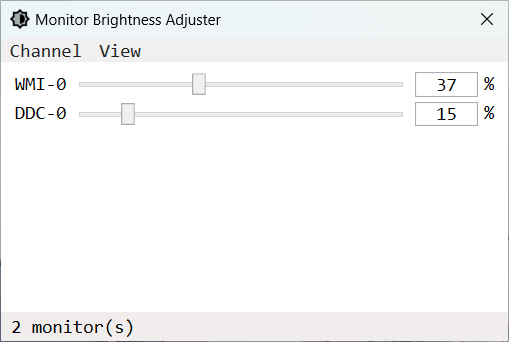
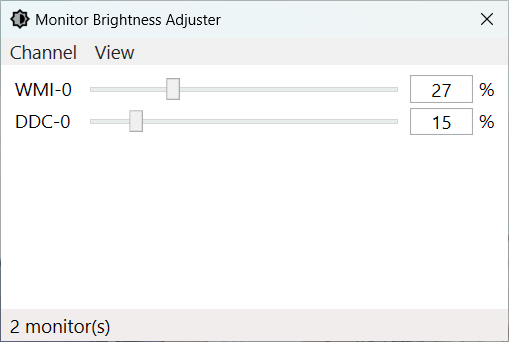
Feat: commit changes

Changed region(s): [[0.0295, 0.2047, 0.9725, 0.4094], [0.0, 0.117, 0.2947, 0.1754], [0.0, 0.9357, 0.2652, 0.9942]]

diff --git a/MonitorBrightnessAdjuster/MainWindow.xaml b/MonitorBrightnessAdjuster/MainWindow.xaml
@@ -12,7 +12,7 @@
         WindowStartupLocation="CenterScreen"
         Title="Monitor Brightness Adjuster">
     <DockPanel>
-        <Menu DockPanel.Dock="Top" FontSize="15" FontFamily="Consolas">
+        <Menu DockPanel.Dock="Top" FontSize="15">
             <MenuItem Header="Channel">
                 <MenuItem Header="WMI" IsCheckable="True" IsChecked="{Binding EnabledWmiChannel}" />
                 <MenuItem Header="DDC" IsCheckable="True" IsChecked="{Binding EnabledDdcChannel}"/>
@@ -21,10 +21,10 @@
                 <MenuItem Header="Refresh" Command="{Binding RefreshCommand}"/>
             </MenuItem>
         </Menu>
-        <StatusBar DockPanel.Dock="Bottom" FontSize="15" FontFamily="Consolas">
-            <TextBlock Text="{Binding MonitorBrightnessModels.Count, StringFormat={}{0} monitor(s)}" Margin="5,0,0,0" />
+        <StatusBar DockPanel.Dock="Bottom" FontSize="15">
+            <TextBlock Text="{Binding MonitorBrightnessModels.Count, StringFormat={}{0} monitor(s)}" Margin="4,0,0,0" />
         </StatusBar>
-        <ListBox BorderThickness="0" Margin="5" FontSize="15" FontFamily="Consolas" ItemsSource="{Binding MonitorBrightnessModels}">
+        <ListBox BorderThickness="0" Margin="5" FontSize="15" ItemsSource="{Binding MonitorBrightnessModels}">
             <ListBox.ItemContainerStyle>
                 <Style TargetType="ListBoxItem">
                     <Setter Property="HorizontalContentAlignment" Value="Stretch" />
@@ -40,7 +40,7 @@
                             <ColumnDefinition Width="Auto" />
                             <ColumnDefinition Width="Auto" />
                         </Grid.ColumnDefinitions>
-                        <TextBlock Grid.Column="0" Margin="0,0,5,0">
+                        <TextBlock Grid.Column="0" Width="50" Margin="0,0,5,0">
                             <TextBlock.Text>
                                 <MultiBinding StringFormat="{}{0}-{1}">
                                     <Binding Path="Channel" />
@@ -49,7 +49,7 @@
                             </TextBlock.Text>
                         </TextBlock>
                         <Slider Grid.Column="1" VerticalAlignment="Center" Margin="0,0,5,0" Maximum="100" Value="{Binding Brightness}" />
-                        <TextBox Grid.Column="2" Width="50" TextAlignment="Center" VerticalContentAlignment="Center" InputMethod.IsInputMethodEnabled="False" Margin="0,0,5,0" Text="{Binding Brightness, UpdateSourceTrigger=PropertyChanged}" />
+                        <TextBox Grid.Column="2" Width="50" TextAlignment="Center" VerticalContentAlignment="Center" Margin="0,0,5,0" local:TextBoxAttachedProperties.IsPercentage="True" Text="{Binding Brightness, UpdateSourceTrigger=PropertyChanged}" />
                         <TextBlock Grid.Column="3" Text="%" />
                     </Grid>
                 </DataTemplate>

diff --git a/MonitorBrightnessAdjuster/TextBoxAttachedProperties.cs b/MonitorBrightnessAdjuster/TextBoxAttachedProperties.cs
@@ -1,0 +1,44 @@
+using System.Windows.Controls;
+using System.Windows.Input;
+using System.Windows;
+
+namespace MonitorBrightnessAdjuster {
+    public class TextBoxAttachedProperties {
+        public static bool GetIsPercentage(DependencyObject obj) {
+            return (bool) obj.GetValue(MatchingPatternProperty);
+        }
+
+        public static void SetIsPercentage(DependencyObject obj, bool value) {
+            obj.SetValue(MatchingPatternProperty, value);
+        }
+
+        public static readonly DependencyProperty MatchingPatternProperty =
+            DependencyProperty.RegisterAttached("IsPercentage", typeof(bool), typeof(TextBox), new PropertyMetadata(false,
+                (s, e) => {
+                    if (s is TextBox textBox) {
+                        textBox.SetValue(InputMethod.IsInputMethodEnabledProperty, !(bool) e.NewValue);
+                        textBox.AllowDrop = !(bool) e.NewValue;
+                        textBox.CommandBindings.Clear();
+                        textBox.PreviewTextInput -= TextInput;
+                        if ((bool) e.NewValue) {
+                            textBox.CommandBindings.Add(new CommandBinding(ApplicationCommands.Paste, null, CommandCanExecute));
+                            textBox.PreviewTextInput += TextInput;
+                        }
+                    }
+                }));
+
+        private static void CommandCanExecute(object sender, CanExecuteRoutedEventArgs e) {
+            e.CanExecute = false;
+            e.Handled = true;
+        }
+
+        private static void TextInput(object sender, TextCompositionEventArgs e) {
+            if (sender is TextBox textBox) {
+                e.Handled = !(int.TryParse(textBox.Text.Substring(0, textBox.SelectionStart) +
+                                           e.Text +
+                                           textBox.Text.Substring(textBox.SelectionStart + textBox.SelectionLength),
+                                           out int number) && number >= 0 && number <= 100);
+            }
+        }
+    }
+}

diff --git a/MonitorBrightnessAdjuster/Adjusters/WmiAdjuster.cs b/MonitorBrightnessAdjuster/Adjusters/WmiAdjuster.cs
@@ -59,7 +59,7 @@ namespace MonitorBrightnessAdjuster.Adjusters {
             if (monitorIndex >= monitorBrightnessInstances.Count() || monitorIndex < 0) {
                 throw new ArgumentOutOfRangeException(nameof(monitorIndex));
             }
-            if (brightness < 0) {
+            if (brightness < 0 || brightness > 100) {
                 throw new ArgumentOutOfRangeException(nameof(brightness));
             }
             KeyValuePair<ManagementObject, ManagementObject> currentInstance = monitorBrightnessInstances

diff --git a/MonitorBrightnessAdjuster/Adjusters/DdcAdjuster.cs b/MonitorBrightnessAdjuster/Adjusters/DdcAdjuster.cs
@@ -37,7 +37,7 @@ namespace MonitorBrightnessAdjuster.Adjusters {
             if (monitorIndex < 0) {
                 throw new ArgumentOutOfRangeException(nameof(monitorIndex));
             }
-            if (brightness < 0) {
+            if (brightness < 0 || brightness > 100) {
                 throw new ArgumentOutOfRangeException(nameof(brightness));
             }
             if (!GetPhysicalMonitorBrightness((uint) monitorIndex, out _, out uint minimumBrightness, out uint maximumBrightness)) {

diff --git a/MonitorBrightnessAdjuster/MonitorBrightnessModel.cs b/MonitorBrightnessAdjuster/MonitorBrightnessModel.cs
@@ -18,7 +18,7 @@ namespace MonitorBrightnessAdjuster {
         [ObservableProperty]
         private int brightness;
 
-        partial void OnBrightnessChanged(int brightness) {
+        partial void OnBrightnessChanging(int brightness) {
             switch (Channel) {
                 case MonitorBrightnessChannel.WMI:
                     AdjusterSingletons.WmiAdjusterInstance.SetBrightnessPercentage(Index, brightness);
